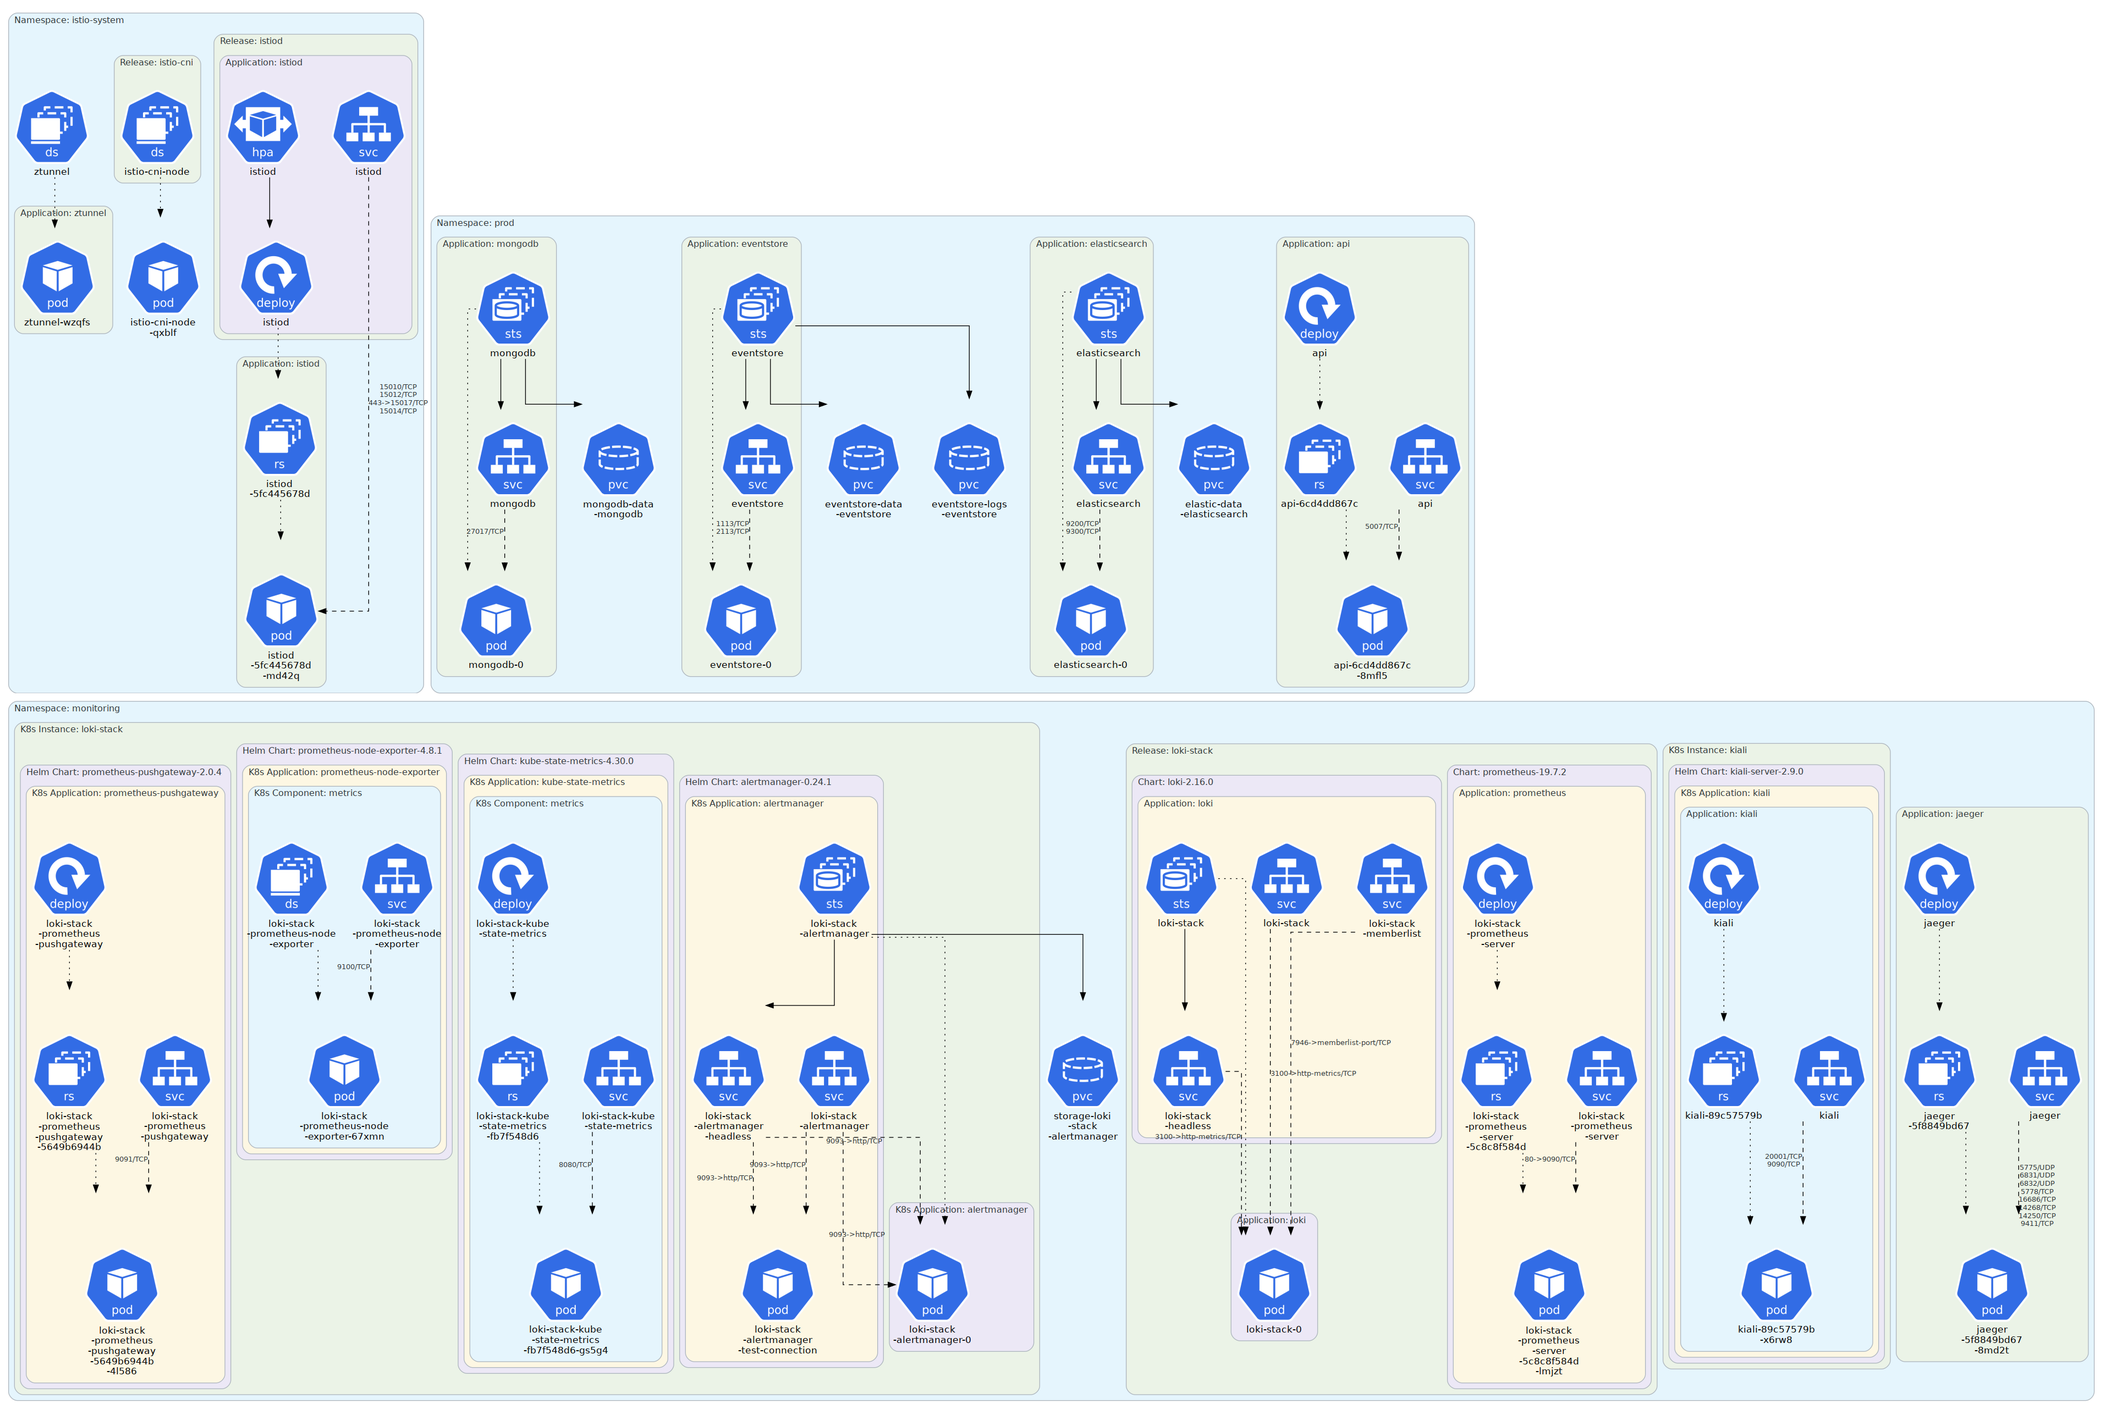
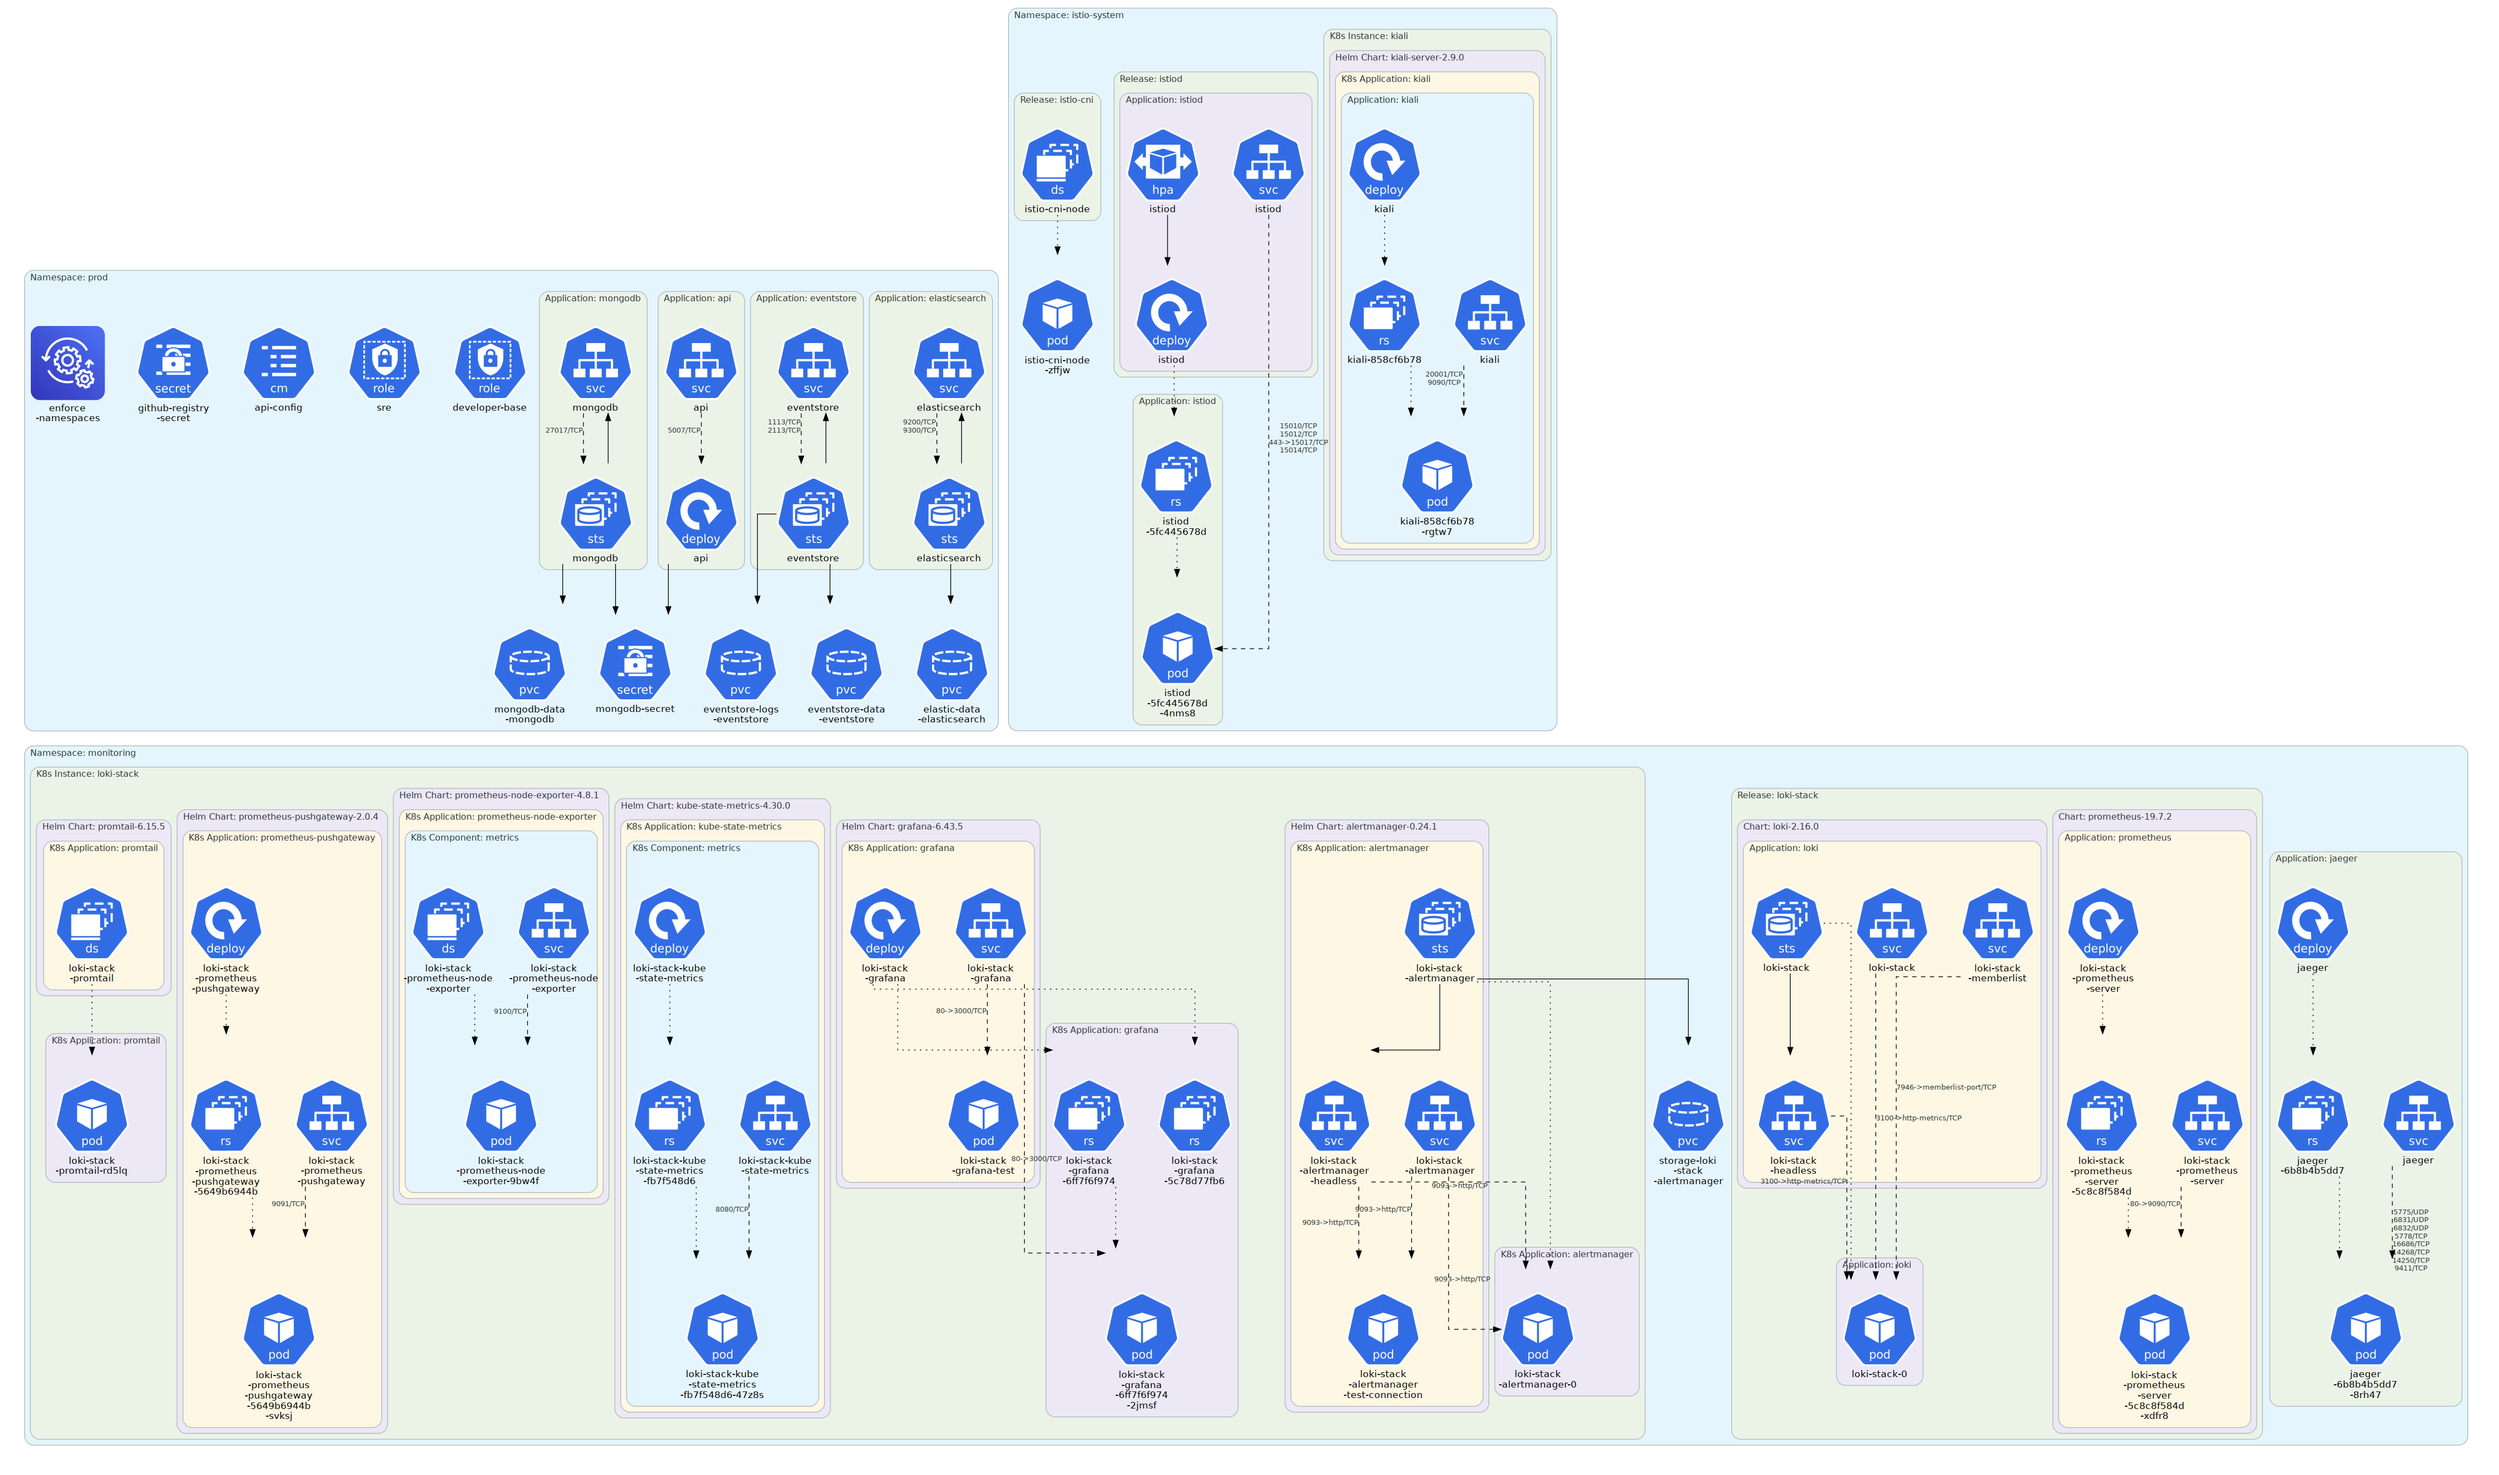
manual testing and update docs

Changed region(s): [[0.0, 0.0, 0.9969, 0.9946]]

diff --git a/README.md b/README.md
@@ -1,12 +1,37 @@
-# Docs in progress, still an ongoing repo!
+# **Motivation**
 
-## Prerequisites
+Pro tip: Don't drive blindfolded.
 
+This project demonstrates a **production-grade observability setup** for a distributed system, capturing all three pillars of observability:
+- **Logs**
+- **Metrics**
+- **Traces**
+
+### **Okitou! why This Demo?**
+The stack includes:
+- A **Golang API** (because why not?) with **MongoDB**, **EventStore** and **Elasticsearch**.
+- **Kubernetes manifests** across three namespaces (`prod`, `monitoring`, `istio-system`) to simulate a real multi-environment setup
+- The full **observability toolkit**:
+  - **Prometheus** + **Node Exporter** (metrics, because $htop is *so* 1999)
+  - **Grafana** (With enough dashboards)
+  - **Loki** + **Promtail**
+  - **Jaeger** (To play detective)
+  - **Kiali** (Who knows what's up wtih Istio)
+
+Although you might not need EVERYTHING in this repo, this setup mirrors real-world observability needs, ensuring you can **monitor, alert, and troubleshoot** before users notice anything’s wrong.
+Key Configuration
+
+#### Key Configuration
+* Kustomize overlays for environment-specific configurations, although only worked on a "prod" setup.
+* Separate RBAC restrictions for developer-base in production VS sre role.
+* A base cluster policy using **kyverno** to ensure all namespaced resources are in [dev/prod/monitoring/istio-system].
+
+## Prerequisites locally
 - Docker
 - Docker Compose
 - go 1.24
 
-## Local Setup
+## Setup
 
 1. Copy `.env.example` to `.env`:
    ```sh
@@ -30,7 +55,7 @@ The REST API documentation is available at:  http://localhost:5007/swagger/index
 
 ## Project Structure
 
-### Internal Structure (DDD Approach)
+#### Internal Structure (DDD Approach)
 
 The internal structure follows Domain-Driven Design (DDD) principles:
 
@@ -64,35 +89,14 @@ The structure separates concerns according to DDD layers:
 - `api`: Presentation layer handling HTTP requests/responses
 - `delivery`: Core domain logic and business rules
 - `infrastructure`: Technical implementation details and external integrations
-
-#### Plant UML:
-
-![Puml](http://www.plantuml.com/plantuml/proxy?cache=no&src=https://raw.githubusercontent.com/wassef911/eventually/refs/heads/main/internal.puml)
-
 ---
-
-### Cluster Setup Notes
-
-1. **Grafana Agent Operator**
-   Followed the [official documentation](https://grafana.com/docs/agent/latest/operator/getting-started/) for setup.
-   - Manually created Grafana CRDs as required by their installation process
-   - Modified Loki deployment to remove strict anti-affinity rules (could alternatively use `soft` anti-affinity)
-
-2. **Key Configuration**
-   - Kustomize overlays for environment-specific configurations, although only worked on a "prod" setup.
-   - Separate RBAC restrictions for **developer-base** access in production VS **sre**.
-   - A base cluster policy using **kyverno** to ensure all namespaced resources are in **[dev-prod-monitoring]**.
-
-3. **Observability Stack**
-   - Jaeger for distributed tracing
-   - Loki for log aggregation
-   - Grafana Agent for metrics collection
 
 #### Cluster Diagram
 ![current cluster](./diagram_cluster.png)
 
 #### Cluster Structure
 ```sh
+deployments
 ├── base
 │   ├── api
 │   ├── configs
@@ -126,3 +130,10 @@ The structure separates concerns according to DDD layers:
             ├── api-svc.yaml
             └── restrict-developer-permissions.yaml
 ```
+
+#### Screenshots
+![logs](./screenshots/go-service-logs.png)
+![traces](./screenshots/go-service-traces.png)
+![mesh](./screenshots/mesh-1.png)
+![mesh setup](./screenshots/mesh-2.png)
+![metrics](./screenshots/nodes.png)
